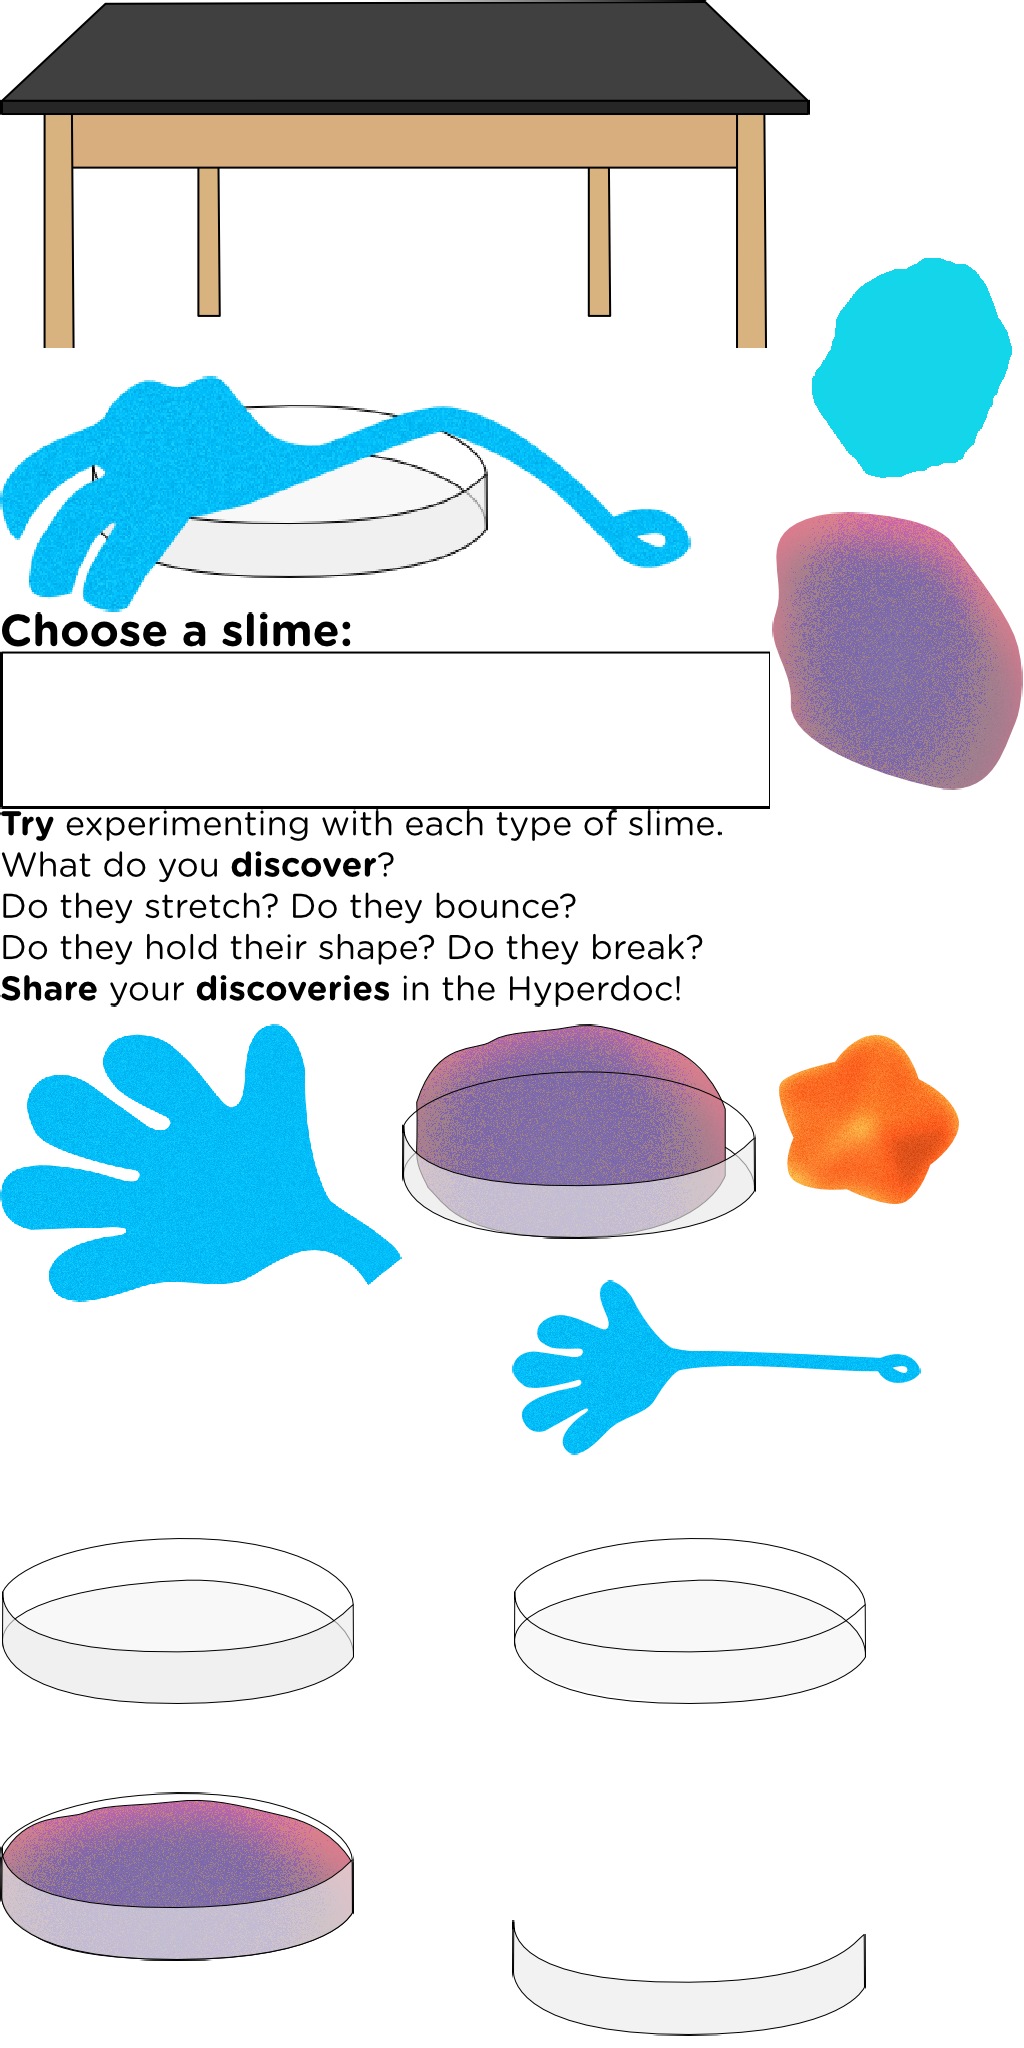
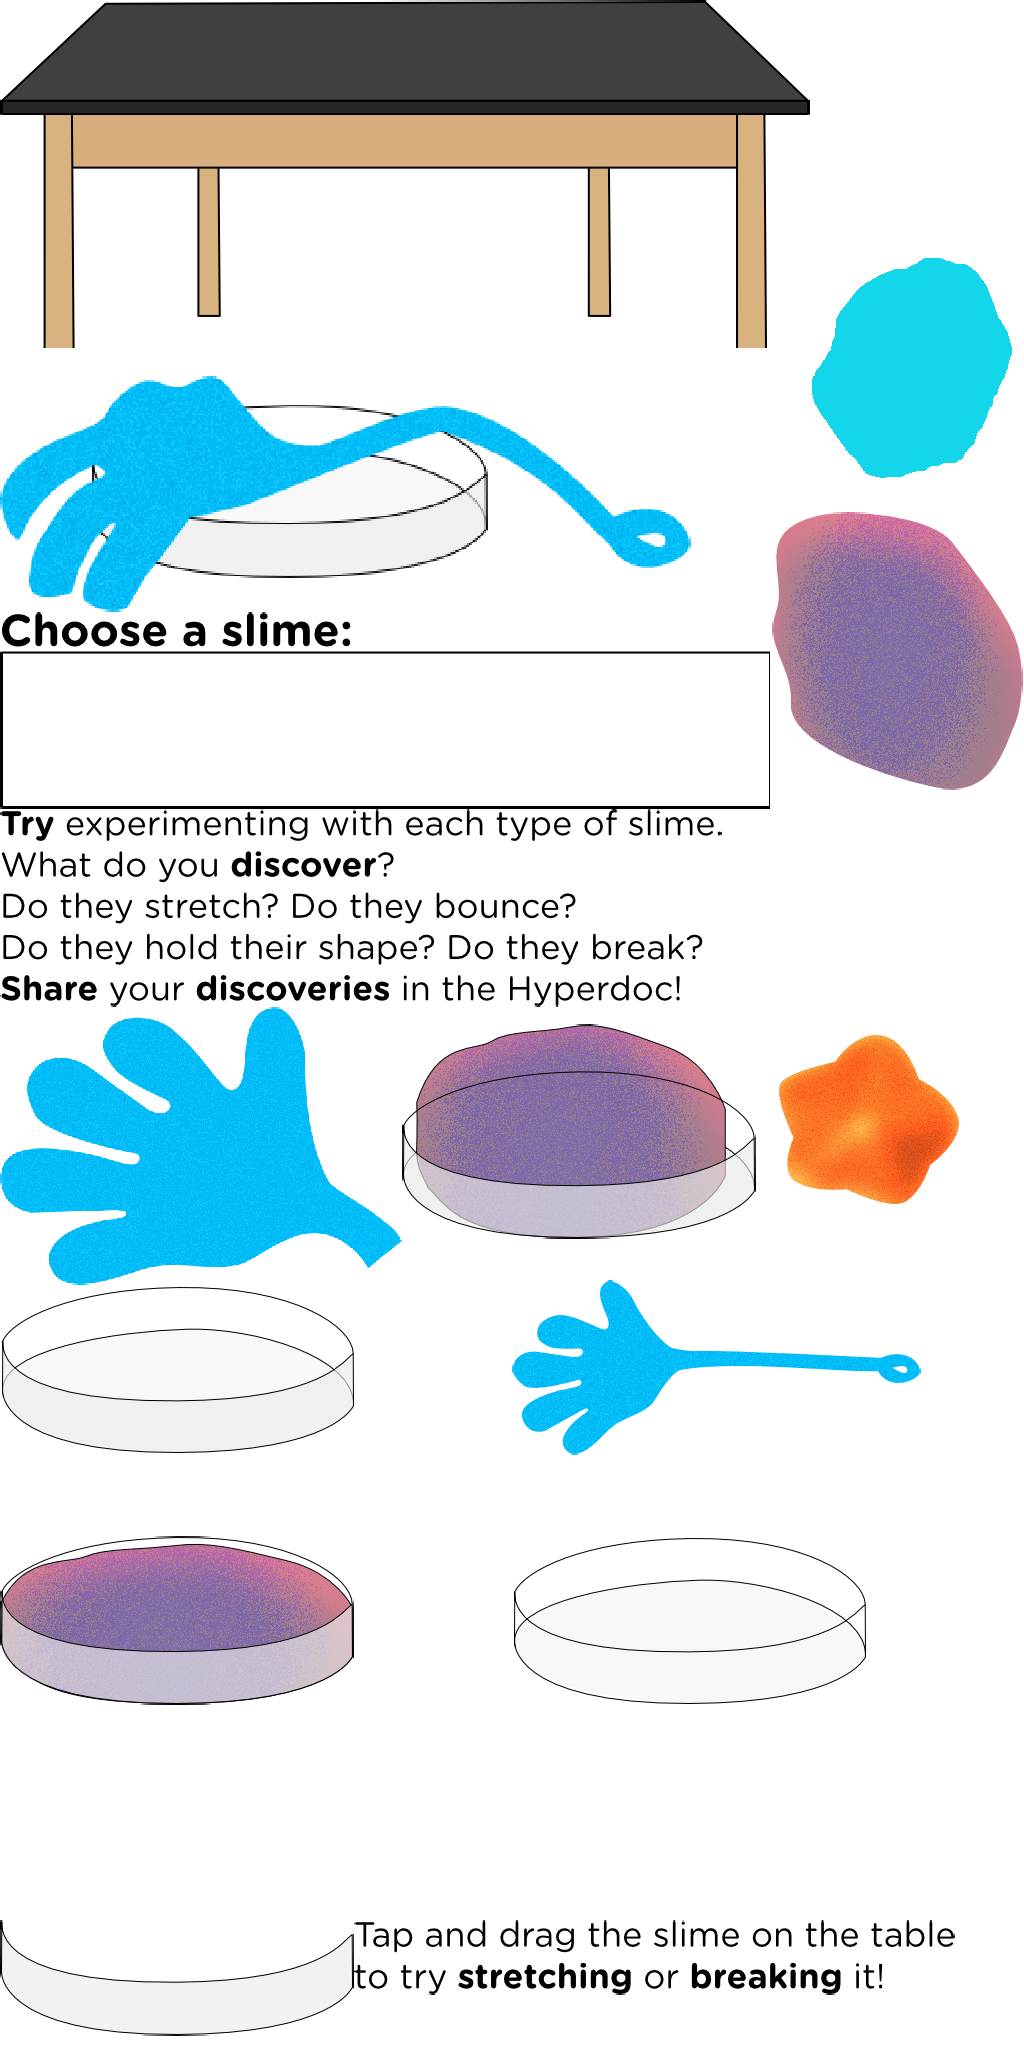
HUD rearranged
added text/moved buttons to right

diff --git a/scripts/c3runtime.js b/scripts/c3runtime.js
@@ -2986,6 +2986,7 @@ value){switch(index){case ENABLE:this.SetEnabled(value);break}}GetDebuggerProper
 		{stickyHandLabel: 0},
 		{Sprite: 0},
 		{marsChunk: 0},
+		{DragInstructions: 0},
 		{STATE_dragmode: 0},
 		{STATE_addmode: 0},
 		{dropcount: 0},
